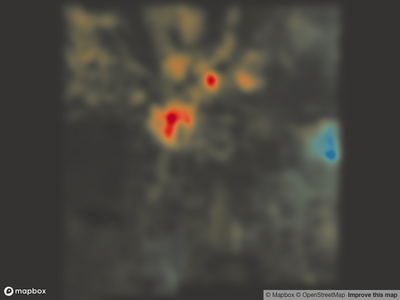
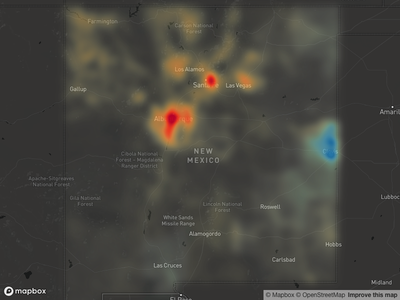
Update image assets

diff --git a/bindings/pydeck/docs/gallery/html/grid.html b/bindings/pydeck/docs/gallery/html/grid.html
@@ -13,13 +13,9 @@
 }
 .thumb-text {
   z-index: 1;
-  padding: 2px;
-  bottom: 0;
-  left: 0;
-  position: absolute;
+  margin: 5px;
   font-weight: 100;
-  color: white;
-  background: #319ec1ad;
+  background: charcoal;
 }
 .grid-cell:hover {
   filter: hue-rotate(3.142rad);
@@ -29,182 +25,156 @@
 
 <div class='wrapper'>
 
-  
   <div class='grid-cell'>
       <a href="./gallery/arc_layer.html">
     <img width="200" src="./_images/arc_layer.png"></img>
       <div class='thumb-text'>ArcLayer</div></a>
   </div>
 
-  
   <div class='grid-cell'>
       <a href="./gallery/binary_transport.html">
     <img width="200" src="./_images/binary_transport.png"></img>
       <div class='thumb-text'>Binary Transport</div></a>
   </div>
 
-  
   <div class='grid-cell'>
       <a href="./gallery/bitmap_layer.html">
     <img width="200" src="./_images/bitmap_layer.png"></img>
       <div class='thumb-text'>BitmapLayer</div></a>
   </div>
 
-  
   <div class='grid-cell'>
       <a href="./gallery/column_layer.html">
     <img width="200" src="./_images/column_layer.png"></img>
       <div class='thumb-text'>ColumnLayer</div></a>
   </div>
 
-  
   <div class='grid-cell'>
       <a href="./gallery/contour_layer.html">
     <img width="200" src="./_images/contour_layer.png"></img>
       <div class='thumb-text'>ContourLayer</div></a>
   </div>
 
-  
   <div class='grid-cell'>
       <a href="./gallery/custom_layer.html">
     <img width="200" src="./_images/custom_layer.png"></img>
       <div class='thumb-text'>CustomLayer</div></a>
   </div>
 
-  
   <div class='grid-cell'>
       <a href="./gallery/geojson_layer.html">
     <img width="200" src="./_images/geojson_layer.png"></img>
       <div class='thumb-text'>GeoJsonLayer</div></a>
   </div>
 
-  
   <div class='grid-cell'>
       <a href="./gallery/geopandas_integration.html">
     <img width="200" src="./_images/geopandas_integration.png"></img>
       <div class='thumb-text'>Geopandas Integration</div></a>
   </div>
 
-  
   <div class='grid-cell'>
       <a href="./gallery/globe_view.html">
     <img width="200" src="./_images/globe_view.png"></img>
       <div class='thumb-text'>GlobeView</div></a>
   </div>
 
-  
   <div class='grid-cell'>
       <a href="./gallery/great_circle_layer.html">
     <img width="200" src="./_images/great_circle_layer.png"></img>
       <div class='thumb-text'>GreatCircleLayer</div></a>
   </div>
 
-  
   <div class='grid-cell'>
       <a href="./gallery/grid_layer.html">
     <img width="200" src="./_images/grid_layer.png"></img>
       <div class='thumb-text'>GridLayer</div></a>
   </div>
 
-  
   <div class='grid-cell'>
       <a href="./gallery/h3_cluster_layer.html">
     <img width="200" src="./_images/h3_cluster_layer.png"></img>
       <div class='thumb-text'>H3ClusterLayer</div></a>
   </div>
 
-  
   <div class='grid-cell'>
       <a href="./gallery/h3_hexagon_layer.html">
     <img width="200" src="./_images/h3_hexagon_layer.png"></img>
       <div class='thumb-text'>H3HexagonLayer</div></a>
   </div>
 
-  
   <div class='grid-cell'>
       <a href="./gallery/heatmap_layer.html">
     <img width="200" src="./_images/heatmap_layer.png"></img>
       <div class='thumb-text'>HeatmapLayer</div></a>
   </div>
 
-  
   <div class='grid-cell'>
       <a href="./gallery/hexagon_layer.html">
     <img width="200" src="./_images/hexagon_layer.png"></img>
       <div class='thumb-text'>HexagonLayer</div></a>
   </div>
 
-  
   <div class='grid-cell'>
       <a href="./gallery/icon_layer.html">
     <img width="200" src="./_images/icon_layer.png"></img>
       <div class='thumb-text'>IconLayer</div></a>
   </div>
 
-  
   <div class='grid-cell'>
       <a href="./gallery/line_layer.html">
     <img width="200" src="./_images/line_layer.png"></img>
       <div class='thumb-text'>LineLayer</div></a>
   </div>
 
-  
   <div class='grid-cell'>
       <a href="./gallery/path_layer.html">
     <img width="200" src="./_images/path_layer.png"></img>
       <div class='thumb-text'>PathLayer</div></a>
   </div>
 
-  
   <div class='grid-cell'>
       <a href="./gallery/point_cloud_layer.html">
     <img width="200" src="./_images/point_cloud_layer.png"></img>
       <div class='thumb-text'>PointCloudLayer</div></a>
   </div>
 
-  
   <div class='grid-cell'>
       <a href="./gallery/polygon_layer.html">
     <img width="200" src="./_images/polygon_layer.png"></img>
       <div class='thumb-text'>PolygonLayer</div></a>
   </div>
 
-  
   <div class='grid-cell'>
       <a href="./gallery/s2_layer.html">
     <img width="200" src="./_images/s2_layer.png"></img>
       <div class='thumb-text'>S2Layer</div></a>
   </div>
 
-  
   <div class='grid-cell'>
       <a href="./gallery/scatterplot_layer.html">
     <img width="200" src="./_images/scatterplot_layer.png"></img>
       <div class='thumb-text'>ScatterplotLayer</div></a>
   </div>
 
-  
   <div class='grid-cell'>
       <a href="./gallery/screengrid_layer.html">
     <img width="200" src="./_images/screengrid_layer.png"></img>
       <div class='thumb-text'>ScreengridLayer</div></a>
   </div>
 
-  
   <div class='grid-cell'>
       <a href="./gallery/terrain_layer.html">
     <img width="200" src="./_images/terrain_layer.png"></img>
       <div class='thumb-text'>TerrainLayer</div></a>
   </div>
 
-  
   <div class='grid-cell'>
       <a href="./gallery/text_layer.html">
     <img width="200" src="./_images/text_layer.png"></img>
       <div class='thumb-text'>TextLayer</div></a>
   </div>
 
-  
   <div class='grid-cell'>
       <a href="./gallery/trips_layer.html">
     <img width="200" src="./_images/trips_layer.png"></img>

diff --git a/bindings/pydeck/pydeck/bindings/map_styles.py b/bindings/pydeck/pydeck/bindings/map_styles.py
@@ -1,4 +1,4 @@
-SATELLITE = "mapbox://styles/mapbox/light-v9"
+SATELLITE = "mapbox://styles/mapbox/satellite-v9"
 LIGHT = "mapbox://styles/mapbox/light-v9"
 DARK = "mapbox://styles/mapbox/dark-v9"
 DARK_NO_LABELS = "https://rivulet-zhang.github.io/dataRepo/mapbox/style/map-style-dark-v9-no-labels.json"
